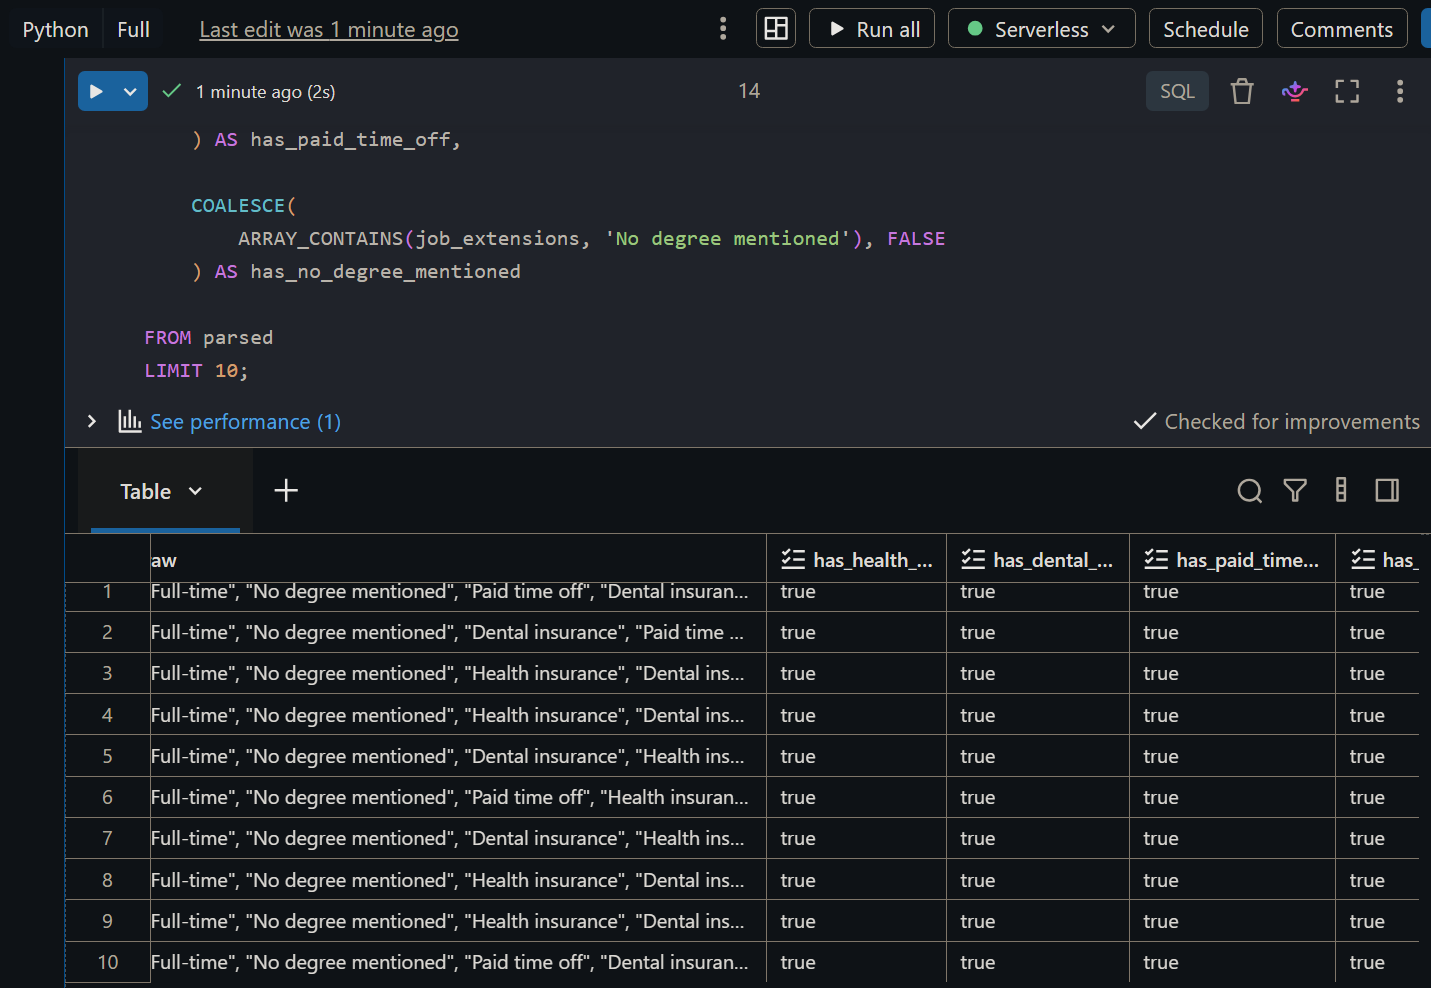
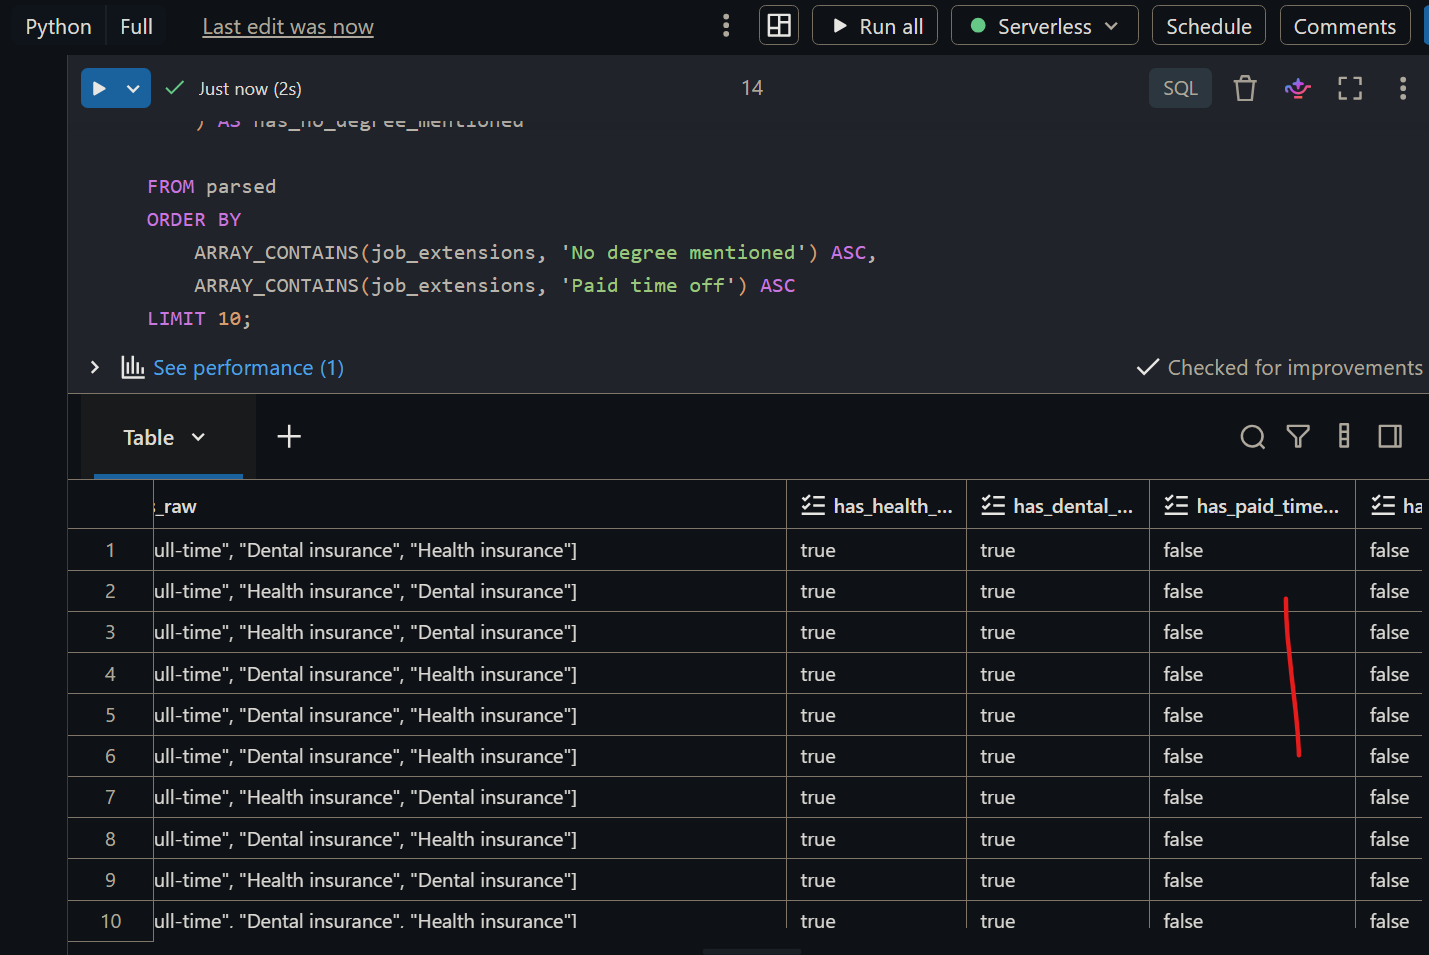
updated

diff --git a/readme.md b/readme.md
@@ -327,12 +327,15 @@ SELECT
     ) AS has_no_degree_mentioned
 
 FROM parsed
+ORDER BY
+    ARRAY_CONTAINS(job_extensions, 'No degree mentioned') ASC,
+    ARRAY_CONTAINS(job_extensions, 'Paid time off') ASC
 LIMIT 10;
 ```
 
 ![Job Extensions Before and After](Assets/job_extensions_before_after.png)
 
-*Figure: Before-and-after validation showing how semi-structured JSON arrays are converted into analytical boolean columns.*
+*Figure: Validation of JSON array parsing, showing how selected benefits are converted into true/false indicators based on keyword presence.*
 
 **Result — Structured Boolean Columns**
 
